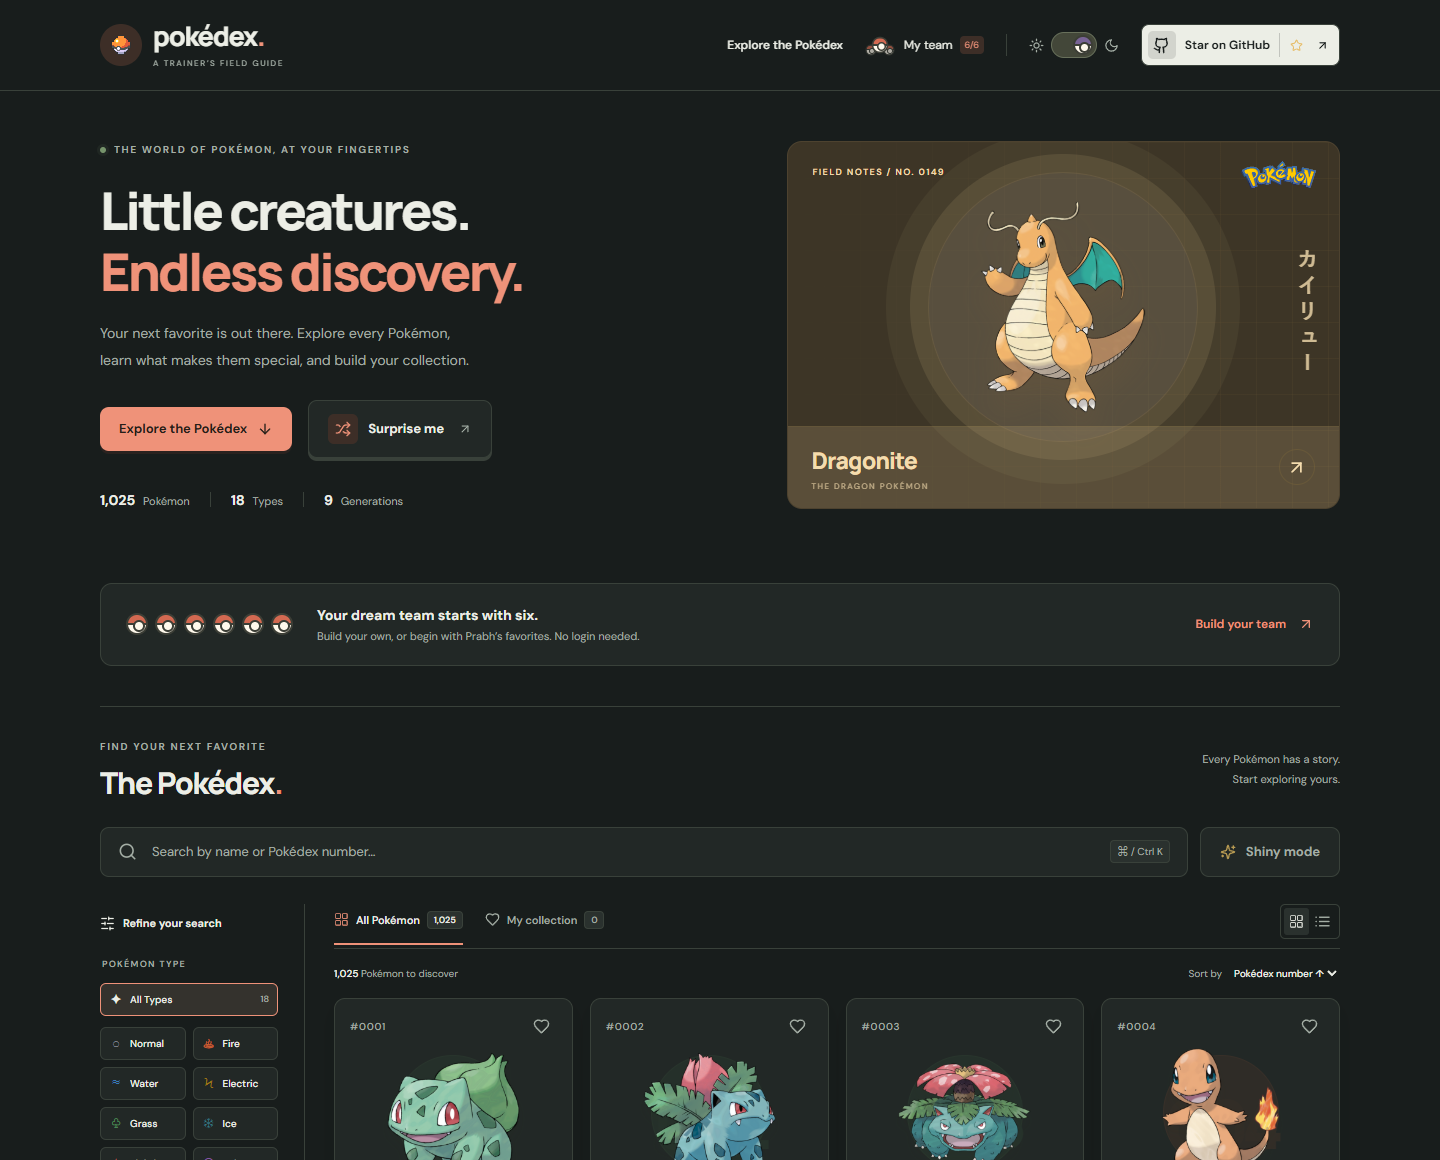
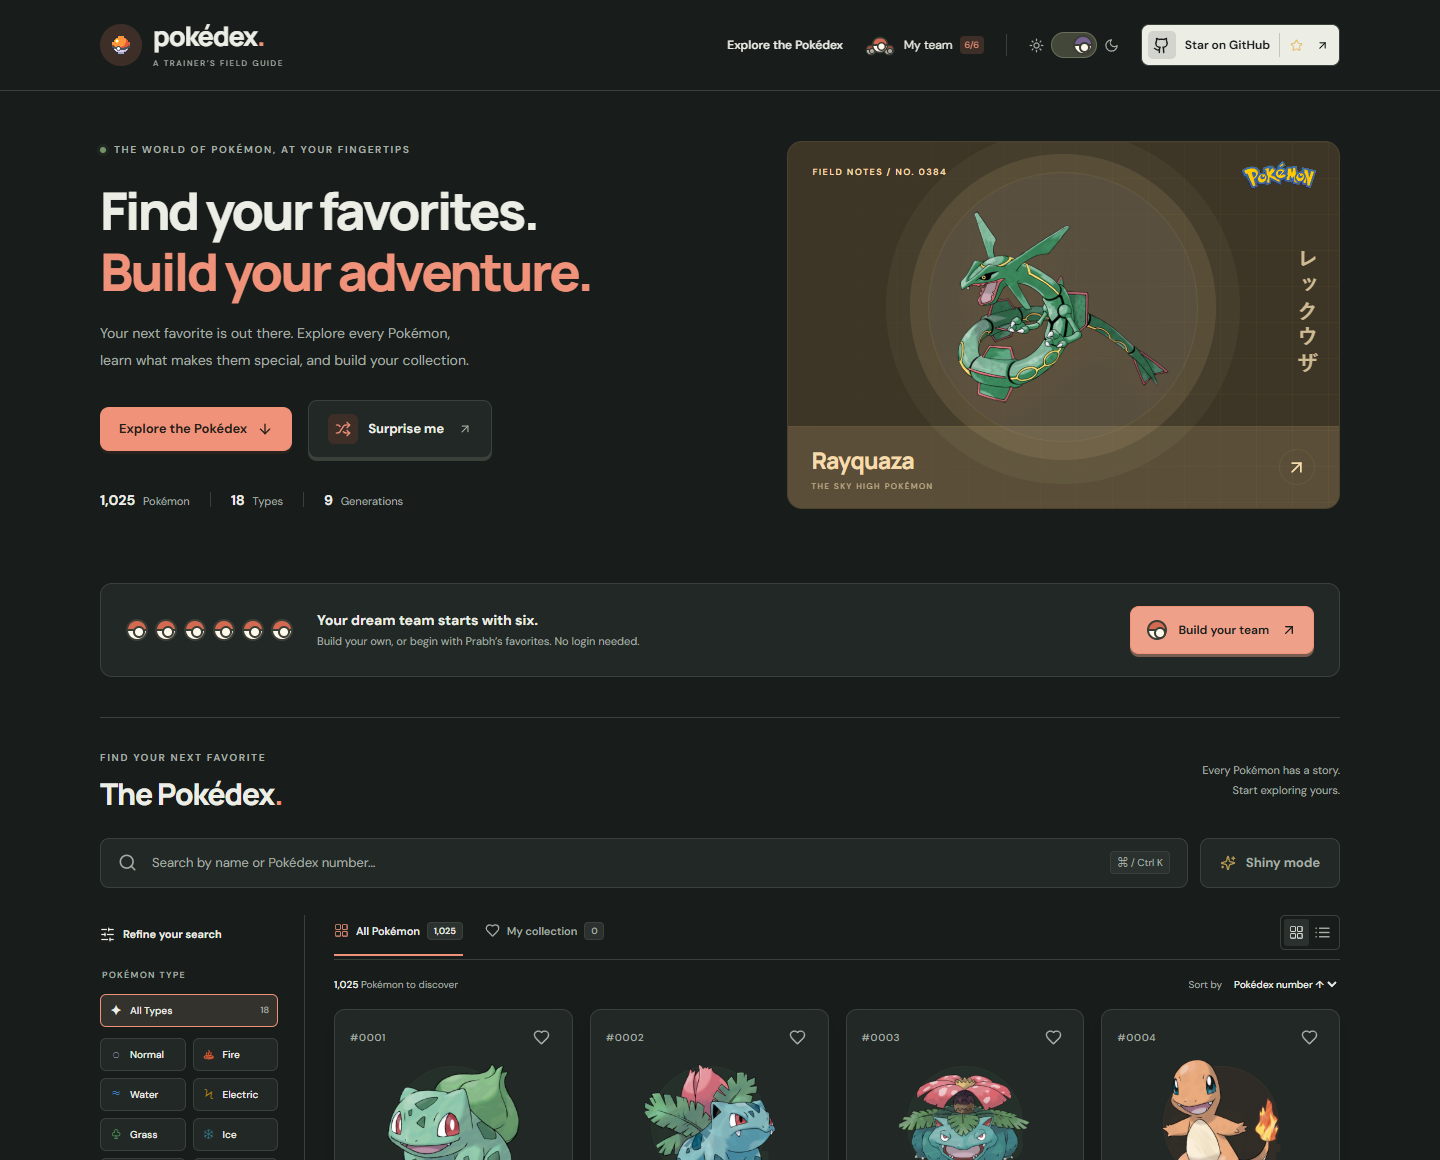
style: refresh hero wording and highlight team builder action

diff --git a/tests/e2e/hero.spec.js b/tests/e2e/hero.spec.js
@@ -7,6 +7,35 @@ test.beforeEach(async ({ page }) => {
   await page.goto('/');
 });
 
+test('team call-to-action is highlighted, fits small screens, and opens the builder', async ({
+  page,
+}) => {
+  await page.goto('/?sort=power');
+  await expect(
+    page.getByRole('heading', { name: 'Find your favorites. Build your adventure.' }),
+  ).toBeVisible();
+  const teaser = page.locator('.team-teaser');
+  const cta = teaser.locator('.teaser-link');
+  for (const width of [1440, 920, 700, 390, 360]) {
+    await page.setViewportSize({ width, height: 900 });
+    await expect(cta).toBeVisible();
+    const box = await cta.boundingBox();
+    expect(box.height).toBeGreaterThanOrEqual(44);
+    expect(box.x + box.width).toBeLessThanOrEqual(width);
+    expect(await cta.evaluate((element) => getComputedStyle(element).backgroundColor)).not.toBe(
+      'rgba(0, 0, 0, 0)',
+    );
+    expect(await page.evaluate(() => document.documentElement.scrollWidth <= innerWidth)).toBe(
+      true,
+    );
+  }
+  await teaser.focus();
+  await expect(teaser).toBeFocused();
+  await page.keyboard.press('Enter');
+  await expect(page).toHaveURL(/\/teams$/);
+  await expect(page.locator('.team-workbench')).toBeVisible();
+});
+
 test('refresh changes the feature and keeps its name, artwork and encounter link aligned', async ({
   page,
 }) => {

diff --git a/src/styles/teams.css b/src/styles/teams.css
@@ -86,10 +86,31 @@
   align-items: center;
   gap: 12px;
   margin-left: auto;
-  color: var(--accent);
+  padding: 13px 16px;
+  border: 1px solid var(--accent);
+  border-radius: 9px;
+  background: color-mix(in srgb, var(--accent) 85%, var(--text));
+  color: var(--page);
+  box-shadow: 0 3px 0 color-mix(in srgb, var(--accent) 35%, var(--line));
+  flex-shrink: 0;
   font-size: 12px;
   font-weight: 600;
   white-space: nowrap;
+}
+.teaser-link > .pokeball-mark {
+  width: 20px;
+  height: 20px;
+  flex-shrink: 0;
+}
+.team-teaser:hover .teaser-link,
+.team-teaser:focus-visible .teaser-link {
+  background: var(--text);
+  border-color: var(--text);
+  box-shadow: 0 3px 0 var(--line);
+}
+.team-teaser:focus-visible {
+  outline: 2px solid var(--accent);
+  outline-offset: 4px;
 }
 .team-page,
 .developer-page {

diff --git a/tests/e2e/explorer.spec.js b/tests/e2e/explorer.spec.js
@@ -21,7 +21,7 @@ test.beforeEach(async ({ page }) => {
 
 test('global search, combined filters, sorting, pagination and reset', async ({ page }) => {
   await expect(
-    page.getByRole('heading', { name: 'Little creatures. Endless discovery.' }),
+    page.getByRole('heading', { name: 'Find your favorites. Build your adventure.' }),
   ).toBeVisible();
   await expect(page.locator('.pokemon-card')).toHaveCount(24);
   await page.getByRole('button', { name: 'Discover more' }).click();

diff --git a/src/components/Hero.jsx b/src/components/Hero.jsx
@@ -19,9 +19,9 @@ export default function Hero({ onRandom }) {
           <span className="status-dot" /> THE WORLD OF POKÉMON, AT YOUR FINGERTIPS
         </div>
         <h1 id="hero-title">
-          Little creatures.
+          Find your favorites.
           <br />
-          <span>Endless discovery.</span>
+          <span>Build your adventure.</span>
         </h1>
         <p>
           Your next favorite is out there. Explore every Pokémon,

diff --git a/src/components/TeamTeaser.jsx b/src/components/TeamTeaser.jsx
@@ -20,7 +20,8 @@ export default function TeamTeaser() {
         <small>Build your own, or begin with Prabh’s favorites. No login needed.</small>
       </span>
       <span className="teaser-link">
-        Build your team <ArrowUpRight size={16} />
+        <span className="pokeball-mark" aria-hidden="true" />
+        Build your team <ArrowUpRight size={16} aria-hidden="true" />
       </span>
     </Link>
   );

diff --git a/src/styles/team-responsive.css b/src/styles/team-responsive.css
@@ -77,6 +77,9 @@
   }
   .teaser-link {
     margin-left: 0;
+    justify-content: center;
+    width: 100%;
+    box-sizing: border-box;
     font-size: 11px;
   }
   .team-page,

diff --git a/README.md b/README.md
@@ -4,7 +4,7 @@
 
 # Pokédex · A Trainer’s Field Guide
 
-**Little creatures. Endless discovery.**
+**Find your favorites. Build your adventure.**
 
 A Pokémon field guide for collectors, curious trainers, and your next favorite team.<br />
 Explore 1,025 Pokémon. Build your six. Discover every generation.<br />
@@ -104,7 +104,7 @@ npx playwright install chromium
 npm run test:e2e
 ```
 
-The browser suite covers discovery, filters, collection persistence, themes, modal focus, direct routes, network failure, team editing, lead ordering, sharing, storage failures, developer presets, collection filters, responsive team previews, and reduced-motion behavior. **17 unit tests and 20 browser journeys** run in GitHub’s quality checks.
+The browser suite covers discovery, filters, collection persistence, themes, modal focus, direct routes, network failure, team editing, lead ordering, sharing, storage failures, developer presets, collection filters, responsive team previews, keyboard navigation, and reduced-motion behavior. **17 unit tests and 21 browser journeys** run in GitHub’s quality checks.
 
 ## Under the cover
 
